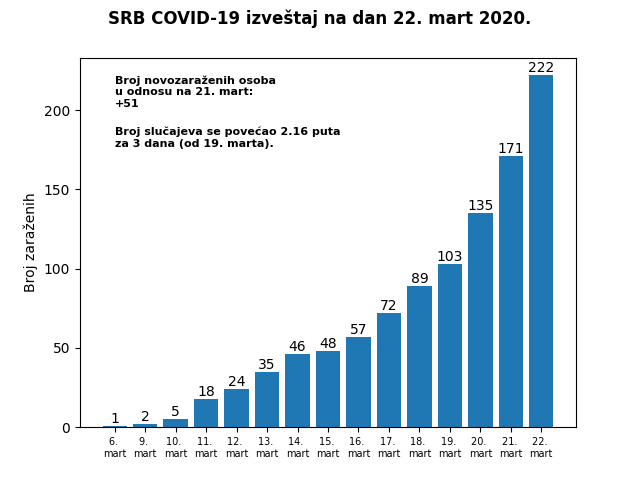
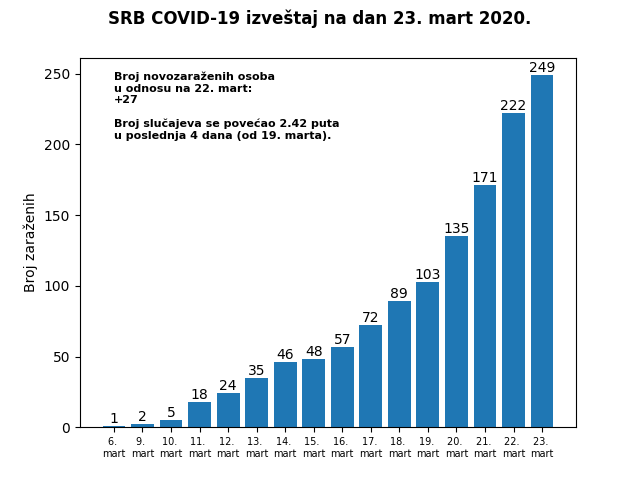
Added input to send_emails method; changed 'za' u 'poslednja'.

diff --git a/main.py b/main.py
@@ -17,7 +17,10 @@ logging.basicConfig(filename='main.log', level=logging.INFO,
 
 
 def send_emails(day_subject):
-    with open("emails.json", "r+") as json_emails:
+    json_to_parse = str(input("Enter the name of JSON file you want "
+                              "to visualize (emails.json or "
+                              "emails_all.json): "))
+    with open(json_to_parse, "r+") as json_emails:
 
         # Load JSON file
         data_emails_dict = json.load(json_emails)
@@ -191,7 +194,7 @@ if "Информације" in tts_content.find('h1', class_='col-xs-12').text:
                 text_bottom_h = text_top_h - 25
                 plt.text(0, text_bottom_h,
                          f"Broj slučajeva se povećao "
-                         f"{double_coeff} puta \nza "
+                         f"{double_coeff} puta \nu poslednja "
                          f"{int(day)-double_date_number} "
                          f"dana (od {double_date}a)."
                          , fontsize=8, fontweight='bold'
